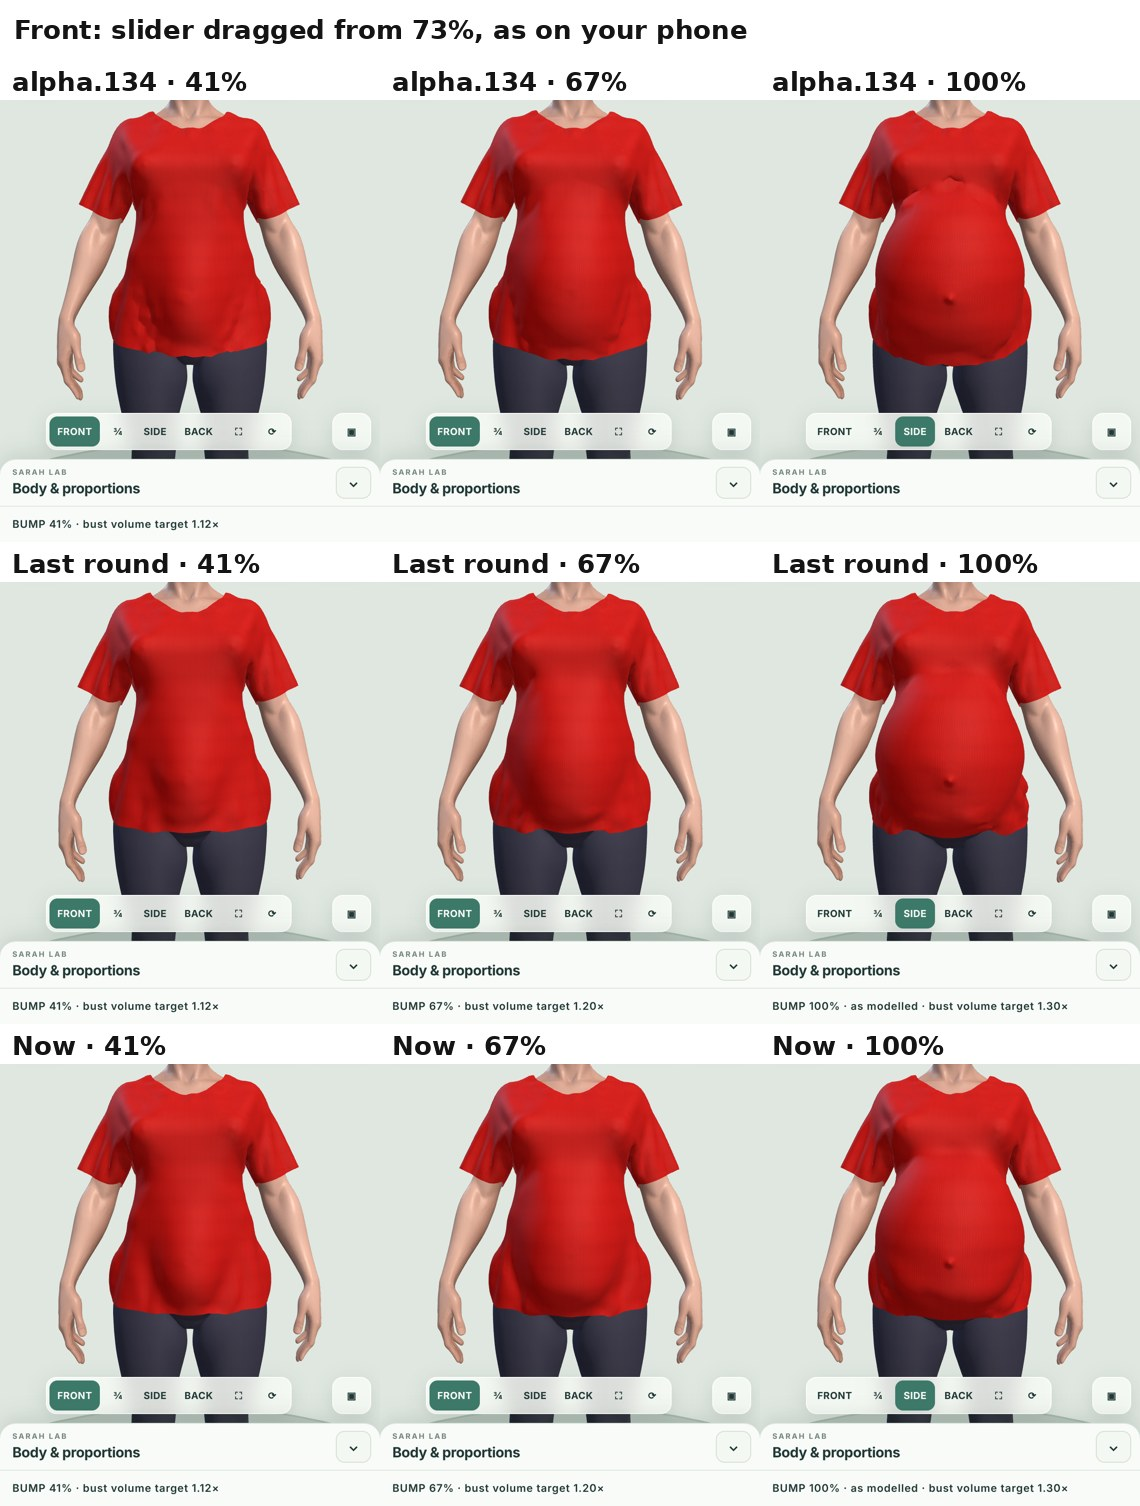
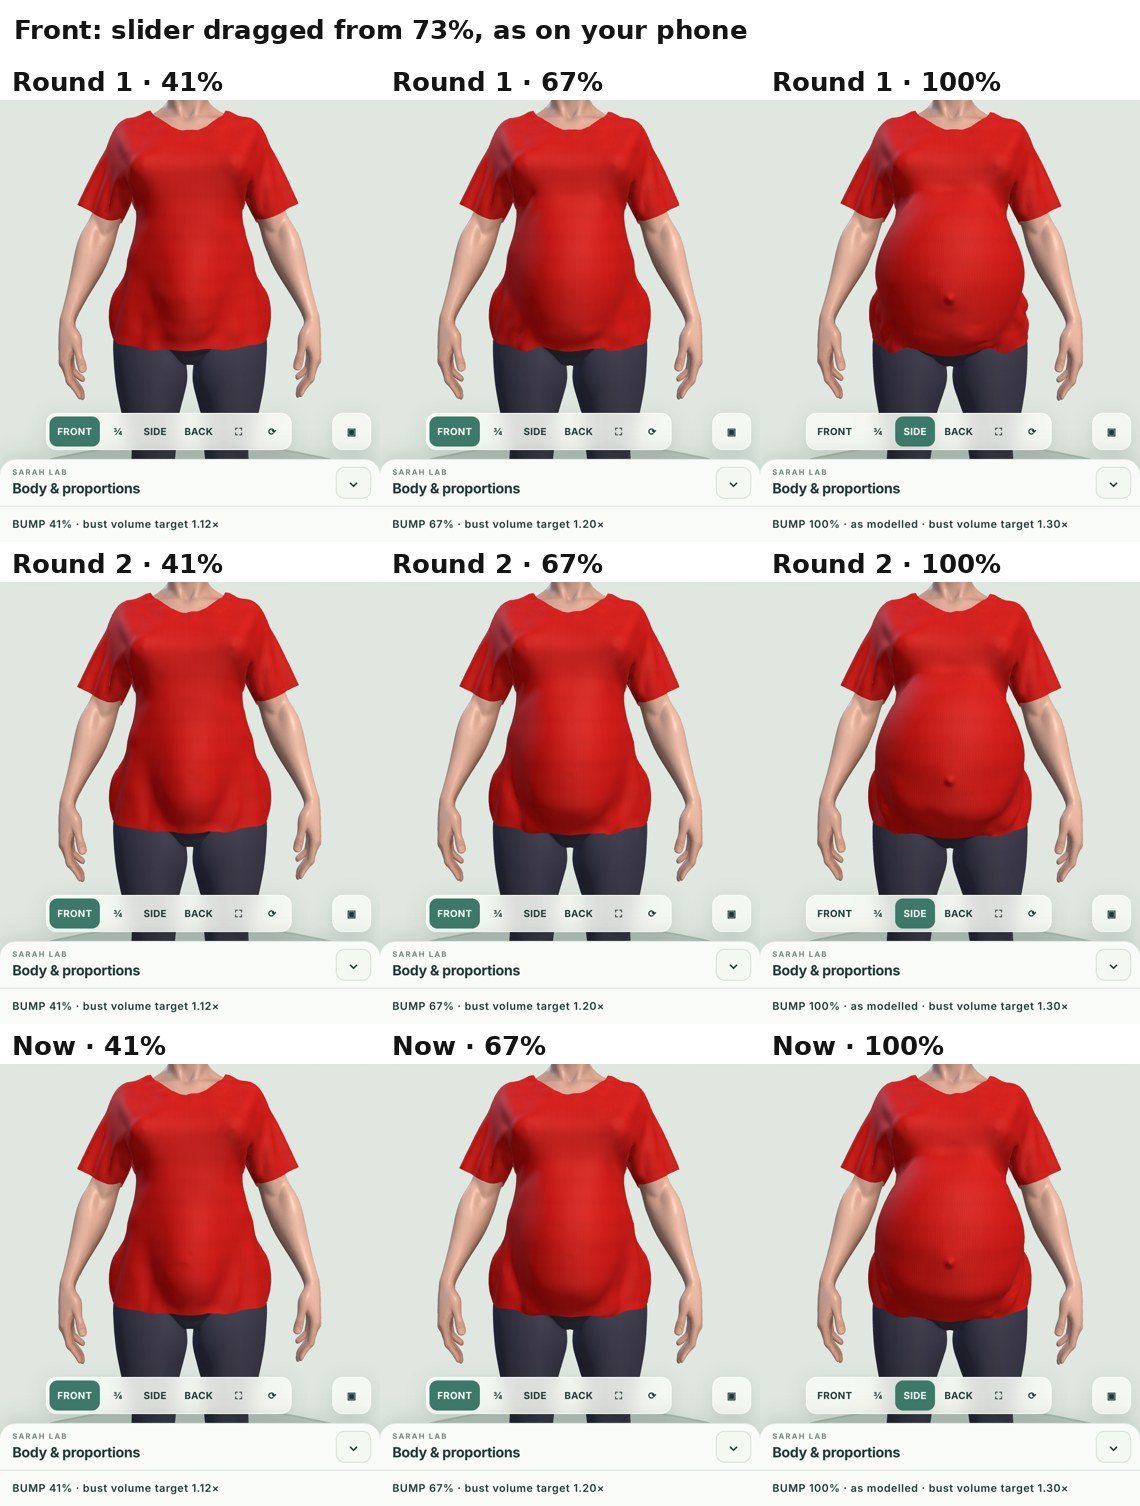
Sarah Lab: the new tee hangs from level only where she has grown far past it -- 100% as round 2, 200% as round 1 (local, awaiting review)
Joshua, 2026-10-28: "the new 100% looks good, but the 200% is wrong... the
last 200% was good". Each edge's hang now eases from round 2's range (0.4 to
0.9 down) to round 1's (level to 0.35 down) as her skin under it grows from 2
to 2.5 times the tee as tailored -- at 100% it stretches up to 2.0, at 200%
2.5 to 3 -- so 100% keeps its round cut and 200% rounds its hem under her
belly again.

Claude-Session: https://claude.ai/code/session_01EJ3GMtHm1zruGuc3sPX6WD

diff --git a/tests/garmentFollowup.test.ts b/tests/garmentFollowup.test.ts
@@ -78,7 +78,7 @@ import { polyLength } from '../src/sarahlab/garment/curves';
 import { BIND_ANY, BIND_TRUNK } from '../src/sarahlab/garment/bind';
 import { draftTee, SET_IN_NECK, TEE_DEFAULTS, teeParams, type Draft, type TeeParams } from '../src/sarahlab/garment/draft';
 import { ClothSim, type ClothSettings } from '../src/sarahlab/clothSim';
-import { BEND_COMPLIANCE, FIT_MAX, FIT_MIN, FIT_SMOOTHING, GarmentCloth, HANG_FROM, HANG_TO, LOOSE_OVER_ARM, RESCUE_OVER, SELF_DISTANCE } from '../src/sarahlab/garment/garmentCloth';
+import { BEND_COMPLIANCE, FIT_MAX, FIT_MIN, FIT_SMOOTHING, GarmentCloth, HANG_BIG_FROM, HANG_BIG_TO, HANG_FROM, HANG_GROWN_FROM, HANG_GROWN_TO, HANG_TO, LOOSE_OVER_ARM, RESCUE_OVER, SELF_DISTANCE } from '../src/sarahlab/garment/garmentCloth';
 import { APEX_MAX, APEX_REACH, COVER_REACH, DOME_MARGIN, domeOver, GarmentDetail, SHADE_NAVEL_GROW, SHADE_SLOPE, SHADE_SPREAD, SPACING_SLACK, TENT_SLOPE, type RestBody } from '../src/sarahlab/garment/garmentDetail';
 import { DETAIL_LOOK, DetailSpots, type DetailPoints, type Poser } from '../src/sarahlab/detailSpots';
 import { measureBody } from '../src/sarahlab/garment/measure';
@@ -2064,6 +2064,62 @@ describe('GarmentCloth.refit with tailoredShape: the cut a function of her shape
     const smoothed = run(LEVEL);
     for (const f of smoothed.ring) expect(Math.abs(f - 1.2)).toBeLessThan(0.002);
     for (const f of smoothed.down) { expect(f).toBeGreaterThan(1); expect(f).toBeLessThan(1.12); }
+  });
+
+  it('hang when she has grown far past it: from level to HANG_BIG_TO, eased in as an edge stretches 2 to 2.5 times', () => {
+    expect([HANG_BIG_FROM, HANG_BIG_TO]).toEqual([0, -0.35]);
+    expect([HANG_GROWN_FROM, HANG_GROWN_TO]).toEqual([2.0, 2.5]);
+    // the hang test's cone (skin about 0.53 down), unsmoothed so the stretch each edge reads is exactly s
+    const g = new THREE.CylinderGeometry(0.3, 0.05, 0.4, 24, 8, true), nv = g.getAttribute('position').count;
+    const sw = new Float32Array(nv * 4);
+    for (let v = 0; v < nv; v++) sw[v * 4] = 1;
+    g.setAttribute('skinIndex', new THREE.Uint16BufferAttribute(new Uint16Array(nv * 4), 4));
+    g.setAttribute('skinWeight', new THREE.Float32BufferAttribute(sw, 4));
+    const cone = (): THREE.SkinnedMesh => {
+      const mesh = new THREE.SkinnedMesh(g.clone(), new THREE.MeshBasicMaterial()), root = new THREE.Group(), bone = new THREE.Bone();
+      root.scale.setScalar(100); root.add(bone, mesh); root.updateMatrixWorld(true); mesh.bind(new THREE.Skeleton([bone]));
+      return mesh;
+    };
+    const rows = [0.15, 0.1, 0.05, 0, -0.05, -0.1, -0.15], radius = (y: number) => 0.05 + 0.25 * (y + 0.2) / 0.4 + 0.02;
+    const ease = (t: number) => { const u = Math.min(1, Math.max(0, t)); return u * u * (3 - 2 * u); };
+    /** Cut for her `sc` times with `hang`: each down and ring edge's cut, and the cut refit's rule gives it (from her skin now). */
+    const run = (sc: number, hang?: [number, number]) => {
+      const r = absolute(cone(), tube(radius, rows));
+      if (hang) r.gc.hang = hang;
+      r.gc.fitSmoothing = 0; r.gc.settle();
+      walk(r.gc, r.body, [sc]);
+      const skin = r.gc['skin'] as ClothSkin, N = new Float32Array(r.n * 3), raw = skin.restShape(new Float32Array(r.n * 3), 0, N);
+      const T = r.gc['tailoredBase'] as Float32Array, [from0, to0] = r.gc.hang;
+      const len = (P: Float32Array, a: number, b: number) => Math.hypot(P[b * 3] - P[a * 3], P[b * 3 + 1] - P[a * 3 + 1], P[b * 3 + 2] - P[a * 3 + 2]);
+      const ring: { got: number; want: number }[] = [], down: { got: number; want: number }[] = [];
+      for (const k of (r.gc['restLengths'] as Map<number, number>).keys()) {
+        const a = Math.floor(k / r.n), b = k % r.n, got = fits(r.gc).get(k)!;
+        let x = len(raw, a, b) / len(T, a, b);
+        if (from0 > to0) {
+          const big = ease((x - HANG_GROWN_FROM) / (HANG_GROWN_TO - HANG_GROWN_FROM)), from = from0 + (HANG_BIG_FROM - from0) * big, to = to0 + (HANG_BIG_TO - to0) * big;
+          const h = (p: number) => ease((from - N[p * 3 + 1]) / (from - to)), dn = Math.abs(raw[b * 3 + 1] - raw[a * 3 + 1]) / len(raw, a, b);
+          x = 1 + (x - 1) * (1 - dn * (h(a) + h(b)) / 2);
+        }
+        const want = Math.min(FIT_MAX, Math.max(FIT_MIN, x));
+        if (Math.floor(a / AROUND) === Math.floor(b / AROUND)) ring.push({ got, want }); else if (a % AROUND === b % AROUND) down.push({ got, want });
+      }
+      for (const e of [...ring, ...down]) expect(e.got).toBeCloseTo(e.want, 6);
+      return { ring: ring.map((e) => e.got), down: down.map((e) => e.got) };
+    };
+    // the cone's skin: 0.25 out over 0.4 down, its normal 0.53 down; a down edge 0.848 vertical
+    const ny = -0.25 / Math.hypot(0.4, 0.25), share = 0.05 / Math.hypot(0.05, 0.25 * 0.05 / 0.4);
+    // 1.2 (big 0): the room's hang (0.4 to 0.9 down) barely touches 0.53-down skin -- down edges close to 1.2
+    const small = run(1.2), hSmall = ease((HANG_FROM - ny) / (HANG_FROM - HANG_TO));
+    expect(hSmall).toBeGreaterThan(0.1); expect(hSmall).toBeLessThan(0.25);
+    for (const f of small.ring) expect(Math.abs(f - 1.2)).toBeLessThan(0.002);
+    for (const f of small.down) { expect(f).toBeCloseTo(1 + 0.2 * (1 - share * hSmall), 2); expect(f).toBeGreaterThan(1.15); }
+    // 3.0 (big 1): hung from level to 0.35 down, the cone wholly -- down edges grow only by their across share
+    const grown = run(3);
+    for (const f of grown.ring) expect(Math.abs(f - FIT_MAX)).toBeLessThan(0.01);
+    for (const f of grown.down) expect(f).toBeCloseTo(1 + 2 * (1 - share), 2);
+    // hang off: every edge s, at 3.0 as at 1.2 (to the Float32 her shape is read in)
+    const off = run(3, [0, 0]);
+    for (const f of [...off.ring, ...off.down]) expect(f).toBeCloseTo(3, 5);
   });
 
   it('strainMap: per particle the least and most strain of its edges and its sharpest fold, all finite', () => {

diff --git a/src/sarahlab/garment/garmentCloth.ts b/src/sarahlab/garment/garmentCloth.ts
@@ -66,6 +66,15 @@ export const SELF_DISTANCE = 0.005;
  * under her ("make sure the shirt retains the 100% belly rounded shape").
  */
 export const HANG_FROM = -0.4, HANG_TO = -0.9;
+/**
+ * ...but where her skin has grown far past the tee as tailored -- her belly at 150-200% -- it hangs from level, as the
+ * first cut did (Joshua, 2026-10-28, on the two cuts side by side: "the new 100% looks good, but the 200% is wrong… the
+ * last 200% was good"): HANG_BIG_FROM / HANG_BIG_TO, eased in as an edge's stretch goes from HANG_GROWN_FROM to
+ * HANG_GROWN_TO (measured on her shape as the cut reads it, her front under the belly at 100% stretches up to 2.0
+ * times, at 150% 2.3-2.6, at 200% 2.5-3).
+ */
+export const HANG_BIG_FROM = 0, HANG_BIG_TO = -0.35;
+export const HANG_GROWN_FROM = 2.0, HANG_GROWN_TO = 2.5;
 
 
 /**
@@ -312,12 +321,18 @@ export class GarmentCloth {
       // underside of her belly, where it hangs
       // (an edge's slope down her and the way her skin faces are both read from her shape as it is, not smoothed)
       const N = new Float32Array(n * 3), raw = this.skin.restShape(new Float32Array(n * 3), this.fitOffset, N), now = this.smoothed(raw.slice());
-      const [from, to] = this.hang, hang = (p: number) => { if (!(from > to)) return 0; const t = Math.min(1, Math.max(0, (from - N[p * 3 + 1]) / (from - to))); return t * t * (3 - 2 * t); };
+      const ease = (t: number) => { const u = Math.min(1, Math.max(0, t)); return u * u * (3 - 2 * u); };
+      const [from0, to0] = this.hang, g0 = HANG_GROWN_FROM, g1 = HANG_GROWN_TO, hangs = from0 > to0;
+      const hang = (p: number, from: number, to: number) => ease((from - N[p * 3 + 1]) / (from - to));
       for (const k of this.restLengths.keys()) {
         const a = Math.floor(k / n), b = k % n, lb = len(T, a, b), ln = len(now, a, b);
         let r = lb > 1e-6 && Number.isFinite(ln) ? ln / lb : 1;
         const lr = len(raw, a, b), down = lr > 1e-6 ? Math.abs(raw[b * 3 + 1] - raw[a * 3 + 1]) / lr : 0;
-        r = 1 + (r - 1) * (1 - down * (hang(a) + hang(b)) / 2);
+        if (hangs) {
+          // where she has grown far past the tee, it hangs from level (HANG_BIG_FROM)
+          const big = ease((r - g0) / (g1 - g0)), from = from0 + (HANG_BIG_FROM - from0) * big, to = to0 + (HANG_BIG_TO - to0) * big;
+          r = 1 + (r - 1) * (1 - down * (hang(a, from, to) + hang(b, from, to)) / 2);
+        }
         this.fit.set(k, Math.min(FIT_MAX, Math.max(FIT_MIN, r)));
       }
       const keep = this.sim.positions.slice(0, n * 3);

diff --git a/docs/reviews/sarah-garment-smooth/README.md b/docs/reviews/sarah-garment-smooth/README.md
@@ -40,6 +40,38 @@ and flattened its curve.
 - **Recut rate.** While the slider is dragged, the tee is recut at most every 0.12 s, because a recut takes 40–100 ms.
   The last recut always lands once she stops changing.
 
+## Round 3 (Joshua, 2026-10-28: "the new 100% looks good, but the 200% is wrong… the last 200% was good")
+
+Round 1's hang (from level) suited a very big belly. Round 2's hang (from 0.4 down) suited 100%. Each edge now takes
+round 2's range, eased toward round 1's (`HANG_BIG_FROM` 0, `HANG_BIG_TO` −0.35) as her skin under it grows from 2 to
+2.5 times the tee as tailored (`HANG_GROWN_FROM` and `HANG_GROWN_TO`).
+
+That stretch, measured on her:
+
+- **100%:** up to 2.0 under her belly, so 100% keeps round 2's cut.
+- **150%:** 2.3 to 2.6.
+- **200%:** 2.5 to 3.
+
+Folds over 60° after round 3, slider dragged from 73%:
+
+| Belly | Folds |
+| --- | --- |
+| 0% | 71 |
+| 41% | 69 |
+| 67% | 68 |
+| 100% | 66 |
+| 200% | 96 (round 1: 119, round 2: 73) |
+
+At 200% the hem rounds under her belly the way it did in round 1.
+
+Checks:
+
+- 91 garment tests pass, including a new one for the eased hang.
+- The full suite passes: 4,569.
+- typecheck, relay:typecheck, build and probe:boot pass.
+
+The sheets now show round 1, round 2 and now.
+
 ## The fix (`garmentCloth.ts`, `roomGarment.ts`, `clothSkin.ts`)
 
 - **Measured from the shape it was tailored from.** Every cut is measured against her 0% design (`tailoredShape`), on
